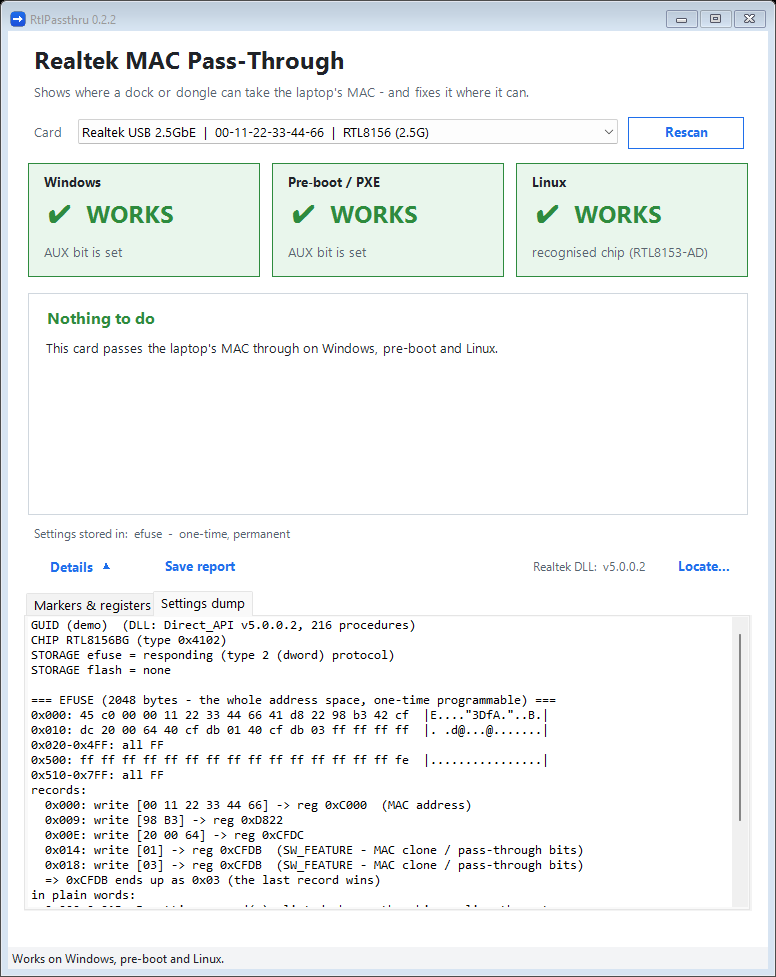
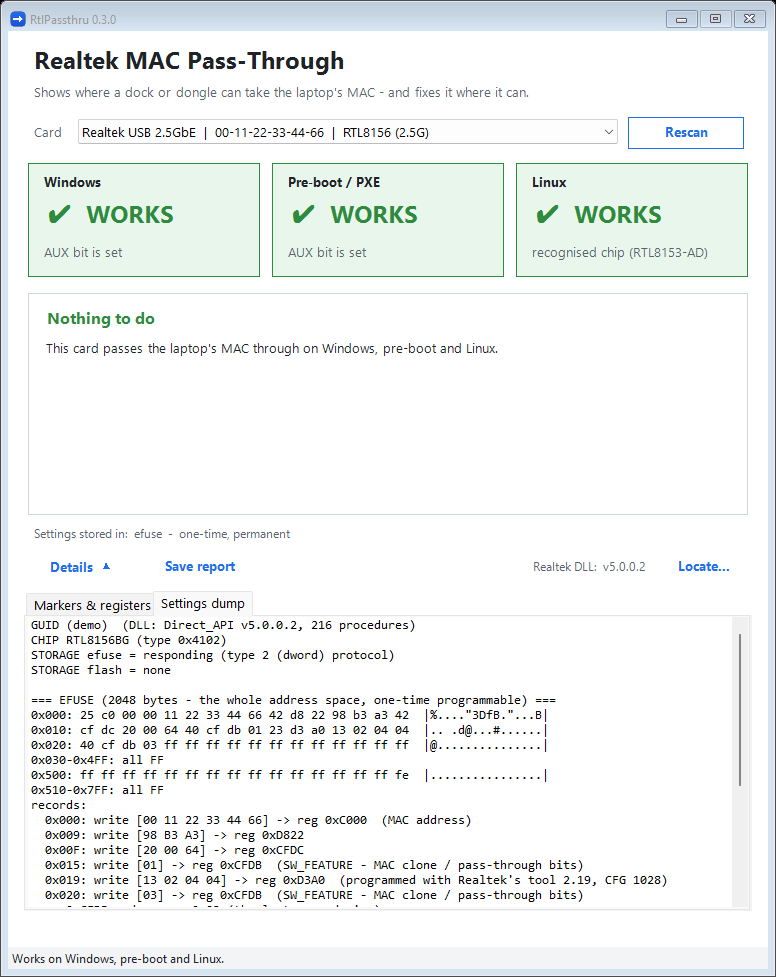
0.3.0: Enable Linux on a plain RTL8153 - docs, screenshots, demo on an RTL8153E
The demo plain card is now an RTL8153E (V3 efuse protocol, the chip the -AD
marker was proven on) and the demo RTL8156 efuse carries Realtek's stamp, so
the screenshots show the proven path and the factory/modified line. README
and the mechanism doc describe the -AD marker, the Linux interface rename
after it, and that writing is proven on type 2 and type 3.

diff --git a/README.md b/README.md
@@ -2,7 +2,8 @@
 
 **Thunderbolt and USB-C docks, and USB Ethernet dongles, often use a Realtek chip for their wired
 network. Some ship with MAC Address Pass-Through switched off. RtlPassthru shows where pass-through
-works on your adapter — Windows, pre-boot, Linux — and, on RTL8156 chips, switches it on.**
+works on your adapter — Windows, pre-boot, Linux — and switches it on where the chip lacks it:
+for Windows and pre-boot on RTL8156 docks, and for Linux on RTL8153 dongles.**
 
 When you dock a laptop, the dock's Ethernet port goes online under *its own* MAC address, not the
 laptop's. On corporate and campus networks that breaks things — access control, licensing, DHCP
@@ -64,7 +65,8 @@ for pass-through:
 | **Required value** | — | — | — | — | — | — | **1** | **1** |
 
 The other bits are not checked. `0xCFDB` is filled at every power-on: the chip's built-in default,
-then any setting records in its efuse on top. The `USB_MISC` registers are set at the factory.
+then any setting records in its efuse on top. The `USB_MISC` registers work the same way: the chip's
+own value from the factory, then any efuse record on top — which is how RtlPassthru enables Linux.
 
 Where the names come from — the chip itself holds only the numbers: **Windows driver** — its log
 messages *"Is AUX / RT MAC clone support system"* (`rtump64x64.sys`, `NIC_QuerySpecificHwCaps`);
@@ -88,18 +90,23 @@ and checked against it on a real RTL8156: for `0xCFDB = 0x03` it reports `MAC_CL
 `DOCKING = 00`.
 
 **What RtlPassthru does:** it reads these registers and shows, per system, whether pass-through will
-work. If bit 1 of `0xCFDB` is missing, it burns `0xCFDB = 0x03` (both bits) into the chip's efuse. It
-does not change the `USB_MISC` registers. Confirmed: a burned RTL8156 (its `USB_MISC_0` reads
-`0x1000`) takes the laptop's MAC in Windows, at Dell pre-boot and on Linux (Ubuntu).
+work, and offers the one fix that fits:
+
+- **Bit 1 of `0xCFDB` missing** — it burns `0xCFDB = 0x03` (both bits). Confirmed: a burned RTL8156
+  (its `USB_MISC_0` reads `0x1000`) takes the laptop's MAC in Windows, at Dell pre-boot and on Linux
+  (Ubuntu).
+- **Windows and pre-boot already work, Linux doesn't** (a plain RTL8153 with bit 0 set) — it burns the
+  "-AD" marker, `USB_MISC_0 = 0x1000`. Confirmed on an RTL8153E dongle: before, Linux kept the dongle's
+  own MAC; after, it logged *"Using pass-thru MAC addr"* and came up under the laptop's MAC.
 
 Each system's check, with the Linux code quoted, is in
 **[How MAC Pass-Through Works](docs/how-mac-passthrough-works.md)**.
 
 **Why it's a "burn".** The efuse is one-time-programmable (OTP) memory: each bit can be set once and
-never cleared. RtlPassthru doesn't edit anything that is there; it **appends one 4-byte record
-(`40 CF DB 03`) into blank space** right after the existing records, reads it back to verify, and the
-chip applies it at every power-on. Because it can't be undone, the tool always shows a **preview**
-first and writes only after you confirm.
+never cleared. RtlPassthru doesn't edit anything that is there; it **appends one small record into
+blank space** right after the existing records — `40 CF DB 03` for pass-through, `41 D8 1A 00 10` for
+the Linux marker — reads it back to verify, and the chip applies it at every power-on. Because it
+can't be undone, the tool always shows a **preview** first and writes only after you confirm.
 
 ---
 
@@ -130,6 +137,14 @@ comfortable with the process before touching an expensive dock.
 
 *An inexpensive USB-A 2.5G dongle with the same Realtek RTL8156 as the dock — a handy thing to try
 the process on first. Photo: AliExpress listing (linked above).*
+
+### Linux on a gigabit dongle
+
+The other common case is the other way round. A plain USB gigabit dongle with a late **RTL8153**
+(Realtek calls ours *RTL8153E*) already passed the laptop's MAC through in Windows and at pre-boot,
+straight out of the box — but **Linux kept the dongle's own MAC**: the Linux driver only accepts chips
+it recognises as "-AD", "-BND" or "-BD". RtlPassthru burned the "-AD" marker into the dongle's efuse,
+and after a re-plug Linux took the laptop's MAC as well.
 
 ---
 
@@ -182,12 +197,21 @@ Below the tiles, **one action card** offers what fits *this* card:
     bar shows it writing and verifying (the window can't be closed mid-write). Then **unplug and
     re-plug** it, so the chip reloads its efuse, and press **Rescan**. The Windows and pre-boot
     tiles should turn green — and Linux too, if the chip passes Linux's `USB_MISC` test.
-- **Nothing to do** — everything already works.
-- **Linux: not on this card** — Windows and pre-boot work, but the chip's `USB_MISC` registers fail
-  Linux's variant test (`-AD`, `-BND`, `-BD`) and it isn't a Lenovo device. Those registers are set at
-  the factory; the tool says so plainly rather than offering a fix it can't prove.
+- **Enable Linux** — Windows and pre-boot work, but Linux doesn't recognise the chip (a plain RTL8153).
+  The same two steps: **Preview** shows the record (`41 D8 1A 00 10`) and where it goes, then
+  **Burn -AD marker**. The data bytes are written first and the header that switches the record on
+  last, only if they all verified. **Re-plug** the dongle and press **Rescan** — the Linux tile turns
+  green.
 
-  ![Linux not on this card](docs/img/05-linux-not-on-this-card.png)
+  ![Enable Linux](docs/img/05-enable-linux.png)
+
+  In Linux the interface may get a new name: a name like `enx00e04c…` is built from the dongle's own
+  MAC, which it no longer uses. If your network settings refer to the interface by that name, update
+  them after the burn.
+- **Nothing to do** — everything already works.
+- **Linux: not on this card** — Windows and pre-boot work, but Linux doesn't recognise the chip and
+  this card isn't one the tool can mark (for example an RTL8156 without the "-AD" variant). The tool
+  says so plainly rather than offering a fix it can't prove.
 
 **Details ▾** opens a panel under the window with two tabs: *Markers & registers* (the exact chip, every
 register each system checks, and its value) and *Settings dump* — the chip's efuse in hex with its setting
@@ -197,9 +221,17 @@ all of it to a text file.
 
 The chip is identified the way Realtek's own tool does it — the same registers, the same tables — and
 shown with Realtek's name for it (for example *RTL8153UG* or *RTL8156BG*). The chip type decides how its
-efuse is read: Realtek uses three efuse protocols (*type 1*, *type 2 (dword)*, *type 3 (V3)*), and
-`RTL8153` alone comes with all three depending on the revision. Reading is proven on type 2 (RTL8156B)
-and type 3 (RTL8153UG) cards, byte for byte against Realtek's tool.
+efuse is read and written: Realtek uses three efuse protocols (*type 1*, *type 2 (dword)*, *type 3
+(V3)*), and `RTL8153` alone comes with all three depending on the revision. Reading matches Realtek's
+tool byte for byte on type 2 (RTL8156B) and type 3 (RTL8153UG, RTL8153E) cards; writing is proven on
+type 2 and type 3. On a type 1 chip the window warns before a burn that this protocol is not yet
+proven on hardware.
+
+The settings dump also tells a **factory** card from a **modified** one: Realtek's tool ends its
+programming with a stamp (its version), so any record after that stamp was added later — the dump
+lists it and names the ones RtlPassthru writes. A chip whose variant was changed by such a record is
+shown as what it is, for example *"RTL8153E (type 0x3106) + efuse record USB_MISC_0 (0xD81A) = 0x1000
+(not a factory value)"*.
 
 ![Details: settings dump](docs/img/04-efuse-decoded.png)
 
@@ -232,7 +264,9 @@ isn't tied to any one operating system:
 - **Windows** — the Realtek driver reads `0xCFDB`, derives `AUXMacType`, and clones the `_AUXMAC_` MAC.
 - **Linux** — the `r8152` driver applies the host MAC too, *when the chip passes its `USB_MISC` test*.
   Confirmed: our burned RTL8156 (`USB_MISC_0 = 0x1000`) came up under the laptop's MAC on Ubuntu,
-  while an RTL8153 with `USB_MISC_0 = 0x0000` and no BND/BD bit kept its own MAC.
+  while an RTL8153 with `USB_MISC_0 = 0x0000` and no BND/BD bit kept its own MAC — until we burned
+  the `USB_MISC_0 = 0x1000` record into its efuse: the chip applies it at power-on, and that RTL8153
+  then took the laptop's MAC too.
 
 Because the capability sits in the hardware, network boot already sees the laptop's identity — which
 is what makes this useful for imaging and deployment, not just day-to-day docking.
@@ -247,6 +281,8 @@ tests, and read the Linux driver's source for its gate.
 
 - The burn is a **one-time, irreversible (OTP)** write. **Rehearse on a spare first** — a cheap
   RTL8156 dongle is the ideal practice target before an expensive dock.
+- It refuses a chip it can't be sure about: a revision outside Realtek's tables, or a variant no
+  efuse record explains.
 - It only ever writes into confirmed-blank space, **never over factory data**, and reads the record
   back to verify it.
 - Keep the USB connection stable during the burn.
@@ -264,7 +300,9 @@ card-inspector.ps1     the window (PowerShell / WinForms)
 tools/                 Python backend:
   diag.py                read registers (REV, USB_MISC, 0xCFDB) and the per-system verdict
   settings.py            read-only settings dump: chip type, efuse (all three protocols) + SPI flash start
-  efuse.py               efuse dump / preview / burn (RTL8156-family efuse)
+  efuse.py               efuse dump / preview / burn of 0xCFDB (RTL8156-family efuse)
+  marker.py              preview / burn of the Linux "-AD" marker (RTL8153 family, all three protocols)
+  jsonout.py             the one machine-readable result line the window reads
   rtldiag.py             unified DLL layer (classifies + drives the Realtek library)
   passthru.py            which registers each system checks -> the verdict (unit-tested)
   storage.py             where the settings live (unit-tested)
@@ -288,6 +326,8 @@ python -I tools/settings.py {InterfaceGuid}         # settings dump: efuse recor
 python -I tools/efuse.py {InterfaceGuid}            # dump the efuse (RTL8156 family)
 python -I tools/efuse.py {InterfaceGuid} --plan     # preview: show what a burn would write
 python -I tools/efuse.py {InterfaceGuid} --burn     # burn 0xCFDB = 0x03   (irreversible)
+python -I tools/marker.py {InterfaceGuid} --plan    # preview: the Linux -AD marker on an RTL8153
+python -I tools/marker.py {InterfaceGuid} --burn    # burn USB_MISC_0 = 0x1000   (irreversible)
 python -I tools/dll_list.py                         # list / classify the Realtek DLLs found
 ```
 

diff --git a/docs/how-mac-passthrough-works.md b/docs/how-mac-passthrough-works.md
@@ -53,8 +53,9 @@ Where the values come from:
   setting records stored in the chip's efuse (one-time-programmable memory), which overwrite it.
   That is why it can be changed by burning a record into the efuse — what RtlPassthru does
   (`0xCFDB = 0x03`, both bits).
-- **`USB_MISC_0` / `USB_MISC_1`** are set at the factory. RtlPassthru reads them but does not change
-  them.
+- **`USB_MISC_0` / `USB_MISC_1`** come from the chip itself at the factory — and, like `0xCFDB`, an
+  efuse record can set them on top at power-on. On a plain RTL8153 RtlPassthru burns one such record,
+  `USB_MISC_0 = 0x1000` (the *-AD* marker), to enable Linux.
 
 Where the names come from:
 
@@ -170,9 +171,12 @@ So:
 - **Windows and pre-boot** need bit 1 of `0xCFDB` on any Realtek chip. That is what RtlPassthru
   burns (it writes `0x03`, so bit 0 is set too).
 - **Linux** needs the `USB_MISC` values to match one of its variants, and on an `-AD` match also
-  bit 0. RtlPassthru does not change the `USB_MISC` values.
+  bit 0. On a plain RTL8153 that already has bit 0, RtlPassthru burns the *-AD* marker
+  (`USB_MISC_0 = 0x1000`).
 
 Confirmed on hardware: our RTL8156 reads `USB_MISC_0 = 0x1000`, so Linux's *-AD* test matches it;
 after burning `0xCFDB = 0x03` it took the laptop's MAC in Windows, at Dell pre-boot and on Ubuntu
 (`r8152 … Using pass-thru MAC addr`). An RTL8153 adapter with `USB_MISC_0 = 0x0000` and no BND/BD bit
-kept its own MAC on Ubuntu, exactly as the code above says.
+kept its own MAC on Ubuntu, exactly as the code above says. An RTL8153E dongle in the same state took
+the laptop's MAC on Ubuntu once the *-AD* marker was burned into its efuse: after a re-plug its
+`USB_MISC_0` read `0x1000`, and `r8152` logged *"Using pass-thru MAC addr"*.
